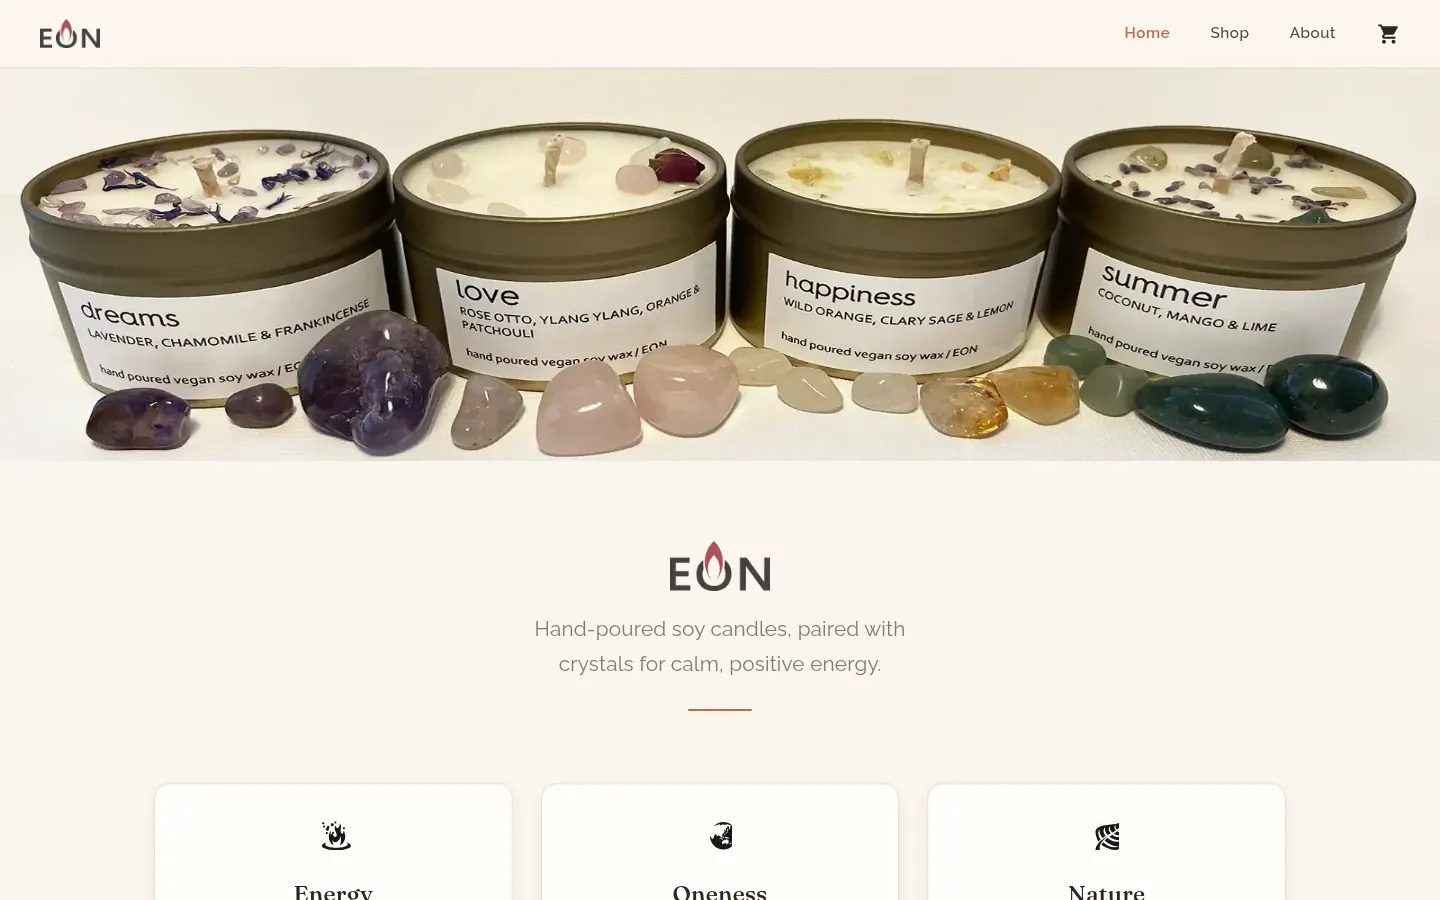
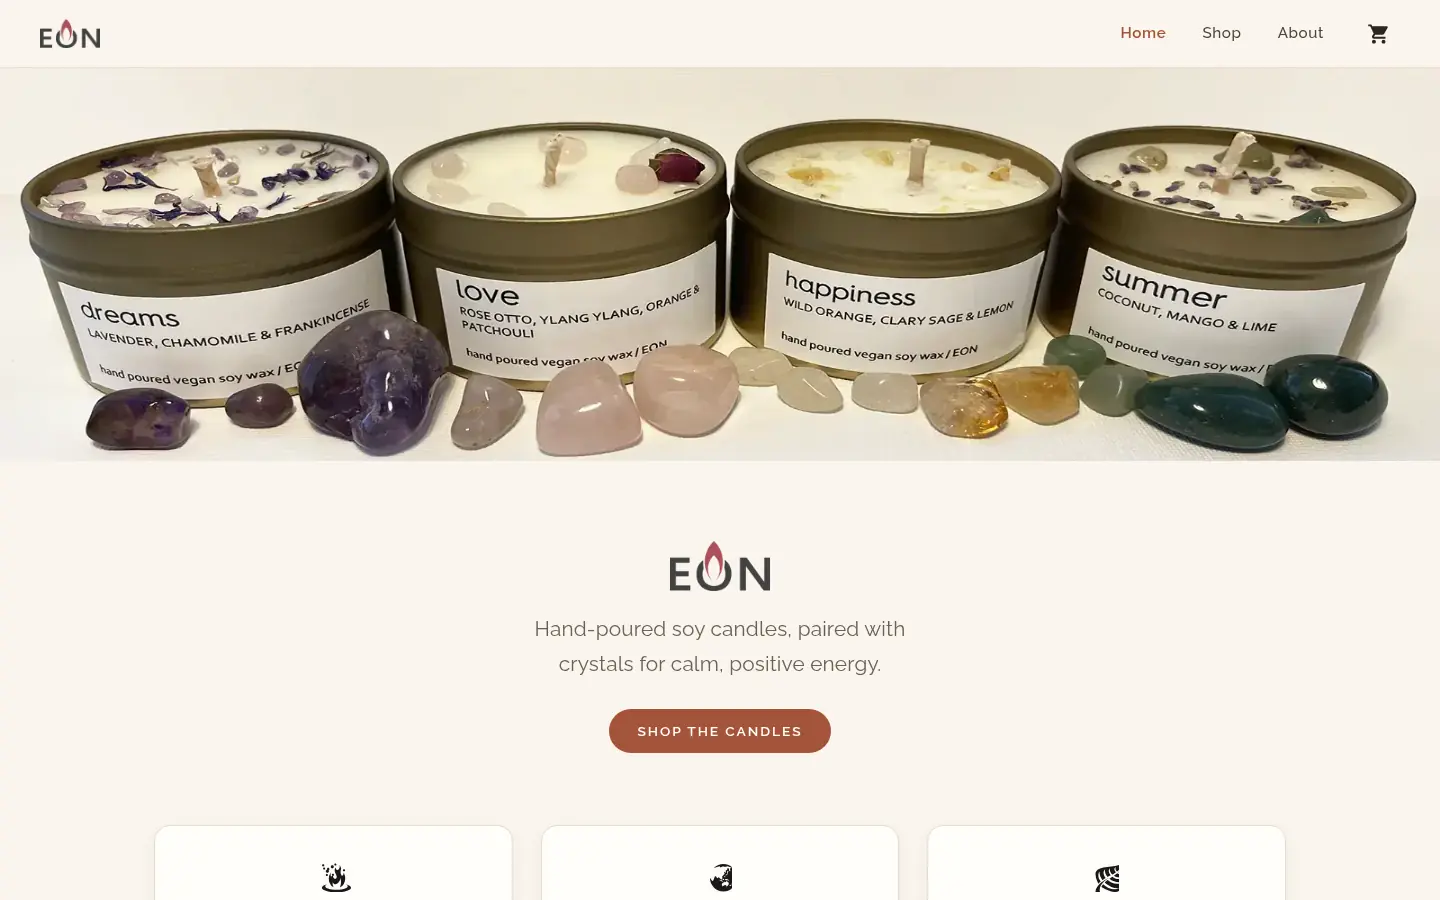
README: how checkout works, env vars, every test script, decisions and trade-offs, and new screenshots

diff --git a/README.md b/README.md
@@ -1,35 +1,55 @@
 # Eon
 
-Website and online shop for Eon, a New Zealand candle brand, built with Next.js and Stripe Checkout.
+Brand and shop site for Eon, a New Zealand candle label, built with Next.js and Stripe Checkout.
 
 **Live site:** [eon-ht82.vercel.app](https://eon-ht82.vercel.app/)
 
-![Eon home page: a banner photo of the four candle tins with crystals, then the Eon logo and tagline](docs/screenshot.webp)
+![Eon home page: a banner photo of the four candle tins with crystals, then the Eon logo, the tagline and a Shop the candles button](docs/screenshot.webp)
+
+<p>
+  <img src="docs/product-mobile.webp" width="300" alt="The Love candle page on a phone: photo gallery with previous and next buttons, the price, scent, crystal and botanicals, a quantity stepper and an Add to cart button">
+  <img src="docs/cart-mobile.webp" width="300" alt="The cart on a phone: two Love candles and one Dreams candle with quantity steppers and Remove buttons, then an order summary with subtotal, NZ shipping and the total">
+</p>
 
 ## About
 
-Eon's candles are hand-poured in vegan soy wax, each paired with crystal chips and flowers. This repo is the brand's site: a home page, a shop page, a page for each of the four candles (love, happiness, dreams and summer), an about page, and a cart with a checkout that is priced on the server.
+Eon's candles are hand-poured in vegan soy wax, each paired with crystal chips and botanicals. This repo is the label's site: a home page, a shop page, a page for each of the four candles (love, happiness, dreams and summer), an about page, and a cart with a checkout that is priced on the server.
 
 The live site is a portfolio demo: checkout shows an order summary and takes no payment.
 
-The first version was built between December 2021 and February 2022. In June 2026 the site was restyled with a small design system (cream, terracotta and sage palette, Fraunces and Raleway type) and simpler flex and grid layouts.
+The first version was built between December 2021 and February 2022. In June 2026 the site was restyled with a small design system (cream, terracotta and sage palette, Fraunces and Raleway type) and simpler flex and grid layouts. In October 2026 it moved to Next.js 16 and React 19, checkout gained a demo mode and server-side pricing, the shop was rebuilt for keyboard and screen-reader use, and the repo gained unit, API and end-to-end tests.
 
 ## Features
 
-- One product route (`pages/shop/[slug].js`) that builds a static page for each candle from the catalogue, with a photo gallery, a full-screen lightbox built on the native `<dialog>` element, a quantity stepper and an add-to-cart button that confirms each add.
-- A cart kept in `localStorage` through a pure reducer (`lib/cart.js`), with prices in cents taken from one catalogue (`data/candles.js`). It survives a reload and stays in sync across tabs.
-- A checkout API route (`pages/api/checkout_sessions.js`) that validates the cart and prices it on the server. With no Stripe key it returns a demo order summary; with a Stripe test key it creates a Stripe Checkout session limited to New Zealand addresses, with a flat NZ$5 shipping rate (1 to 3 business days).
-- Responsive navigation with a mobile menu and a cart count.
-- Security headers in `next.config.js`, including a Content-Security-Policy that allows only the site's own scripts, fonts and connections.
-- Self-hosted fonts, so pages make no third-party requests.
+- **One product route** (`pages/shop/[slug].js`) builds a static page for each candle from the catalogue. Thumbnails choose the main photo, the photo opens a full-screen lightbox built on the native `<dialog>` element (arrow keys, Escape, focus returns to the photo), and Add to cart confirms each add in a live region. The quantity stepper goes from 1 to 10.
+- **A cart kept in `localStorage`** through a pure reducer (`lib/cart.js`), with prices in cents from one catalogue (`data/candles.js`). It shows line totals, NZ shipping and the total, has a stepper and a Remove button on each line, survives a reload and stays in sync across tabs. Carts saved by the first version are migrated, and a corrupt saved cart loads as an empty one.
+- **A checkout API route** (`pages/api/checkout_sessions.js`) that validates the cart and prices it on the server. It runs in demo mode unless a Stripe key is set; see [How checkout works](#how-checkout-works).
+- **An order page** (`/success`) that shows the demo order summary straight after a demo checkout and a thank-you after a Stripe checkout. A direct visit says there's no order to show and leaves the cart alone.
+- **Navigation** with a skip link, a mobile menu that reports its state and closes on Escape, an outside tap, Back or a link, and one cart link named with the item count.
+- **Accessibility checks** with axe-core (WCAG 2.2 A and AA rules plus best practice) on every page and interactive state at 390 and 1440 px, 44 px touch targets, a visible focus ring, reduced motion, no sideways scrolling at 320 px and no clipped text at 200% text size.
+- **Security headers** in `next.config.js`: a Content-Security-Policy that allows only the site's own scripts, fonts and connections, plus HSTS, `X-Content-Type-Options`, `X-Frame-Options`, `Referrer-Policy` and `Permissions-Policy`.
+- **Page metadata from one site URL**: titles, descriptions, canonical links and the social card. `robots.txt` and `sitemap.xml` are written at build, and the cart, order and error pages are marked `noindex`.
+- **No third-party requests**: fonts are self-hosted and there are no analytics or Stripe scripts in the browser.
+
+## How checkout works
+
+1. The cart sends only candle slugs and quantities to `POST /api/checkout_sessions`.
+2. The server checks the request: JSON only (`415` otherwise), at most 8 kB, known candles, whole quantities from 1 to 10, each candle once and no other fields (`400` otherwise). It then prices each line, shipping and the total from the catalogue. Nothing the browser sends can change a price.
+3. The mode is decided on every request:
+   - **No `STRIPE_SECRET_KEY` (the default, and the live site): demo mode.** The API returns the order summary, the browser shows it on `/success` and empties the cart, and no payment is taken.
+   - **A Stripe test key** (`sk_test_` or `rk_test_`) creates a Stripe Checkout session in test mode: prices in NZD built on the server, New Zealand addresses only and a flat NZ$5 shipping rate (1 to 3 business days). The browser goes to the URL Stripe returns, and only if it is on `checkout.stripe.com`.
+   - **A live key** takes real payments only when `EON_ALLOW_LIVE_PAYMENTS=true` is also set. Without it the shop stays in demo mode and logs one warning that never includes the key.
+   - If Stripe rejects the key, checkout falls back to demo mode. Any other Stripe error returns a plain `502` with no details from Stripe.
+4. Stripe's return URLs come from an allow-list: the site URL, this deployment's Vercel URLs, and `localhost` or `127.0.0.1` outside production. The request's `Origin` header is never used, so nobody can point the shop's Stripe page at another site.
 
 ## Tech stack
 
-- Next.js 16 (pages router) and React 19
-- CSS Modules, with shared design tokens as CSS custom properties in `styles/globals.css`, and fonts through `next/font/local`
-- Stripe's Node SDK on the server (the browser needs no Stripe key)
-- react-icons
-- Vitest for unit and API tests, Playwright for end-to-end tests, ESLint 9 and Prettier
+- Next.js 16 (pages router, built with webpack) and React 19
+- CSS Modules, with shared design tokens as CSS custom properties in `styles/globals.css`, and Fraunces and Raleway self-hosted through `next/font/local`
+- Stripe's Node SDK on the server; the browser needs no Stripe key or script
+- react-icons (the old axios, MUI icons, Stripe.js and react-image-lightbox dependencies are gone)
+- Vitest, Testing Library and jsdom for unit, API and component tests; Playwright and axe-core for end-to-end, accessibility and performance tests
+- ESLint 9 with jsx-a11y, Prettier, and a TypeScript check of the checkout code's JSDoc types against the Stripe SDK
 - Node 24 (pinned in `package.json` and `.nvmrc`), deployed on Vercel
 
 ## Running locally
@@ -38,35 +58,64 @@ You need Node 24.
 
 ```bash
 npm ci
+cp .env.example .env.local   # optional: every variable is optional
 npm run dev
 ```
 
-Then open http://localhost:3000. No environment variables are needed: checkout runs in demo mode. To try a real Stripe test-mode hand-off, copy `.env.example` to `.env.local` and set `STRIPE_SECRET_KEY` to a Stripe test key. `.env.example` explains every variable.
+Then open http://localhost:3000. Checkout works with no keys: it runs in demo mode. To try a Stripe test-mode hand-off, set `STRIPE_SECRET_KEY` in `.env.local` to a test key from your own Stripe account.
 
-Other scripts:
+### Environment variables
 
-- `npm run build` and `npm run start`: production build and server
-- `npm run lint` and `npm run format:check`
-- `npm test`: unit, API and component tests
-- `npm run test:e2e`: end-to-end tests against a local production build (set `CHROME_PATH` to use an installed Chrome, or run `npx playwright install chromium` first)
+All are optional, and the build needs none. `.env.example` describes each one.
+
+| Name                                 | Default                                                     | What it does                                                                                               |
+| ------------------------------------ | ----------------------------------------------------------- | ---------------------------------------------------------------------------------------------------------- |
+| `STRIPE_SECRET_KEY`                  | empty: demo mode                                            | A test key turns on the Stripe test-mode hand-off. A live key needs `EON_ALLOW_LIVE_PAYMENTS` too.         |
+| `EON_ALLOW_LIVE_PAYMENTS`            | empty                                                       | `true` lets a live key take real payments.                                                                 |
+| `NEXT_PUBLIC_SITE_URL`               | Vercel's production URL, then `https://eon-ht82.vercel.app` | Canonical links, the sitemap and Stripe's return URLs.                                                     |
+| `NEXT_PUBLIC_STRIPE_PUBLISHABLE_KEY` | empty                                                       | Still accepted for older deployments, but no longer used.                                                  |
+| `EON_STRIPE_API_BASE`                | empty                                                       | Tests only: sends Stripe API calls to a local stub. Ignored unless the host is `localhost` or `127.0.0.1`. |
+
+The API reads the Stripe settings on every request. The cart and order pages also read them at build time to choose their wording, so set them before `npm run build`.
+
+### Scripts
+
+- `npm run dev`: development server
+- `npm run build` and `npm run start`: production build and server. The build writes `robots.txt` and `sitemap.xml` first.
+- `npm test`: unit, API and component tests (Vitest). A guard fails any test that opens a connection to anything other than localhost.
+- `npm run test:coverage`: the same tests, with at least 90% line coverage required for `lib/` and the API route
+- `npm run test:e2e`: end-to-end tests (Playwright). It builds the site, starts it on `127.0.0.1:7301` in demo mode, and runs the shopping journey, cart, checkout, gallery, navigation, accessibility, SEO and performance specs at 390 and 1440 px. A second server on port 7305, with a local Stripe stub on 7309, covers Stripe test mode, so nothing calls Stripe. Set `CHROME_PATH` to use an installed Chrome, or run `npx playwright install chromium` first.
+- `npm run lint`, `npm run typecheck`, `npm run format` and `npm run format:check`
+- `npm run check`: lint, type check, format check, tests with coverage and a production build
+
+`.github/workflows/ci.yml` runs `npm run check` and then the end-to-end tests on Node 24, in demo mode with no secrets.
 
 ## Project structure
 
 ```
 pages/          Home, shop, about, cart, success, 404 and 500 pages
 pages/shop/     [slug].js: one statically generated page per candle
-pages/api/      checkout_sessions.js (validates the cart, demo or Stripe)
-components/     Nav bar, footer, product card and gallery, cart controls, SEO tags
+pages/api/      checkout_sessions.js: validates the cart, then demo or Stripe
+components/     Nav bar, footer, product card and gallery, lightbox, cart controls, SEO tags
 data/           The candle catalogue, product copy and product photos
-hooks/          Cart context
-lib/            Cart, checkout, money, site URL and font helpers
+hooks/          The cart hook, backed by a small store in lib/
+lib/            Cart reducer and store, checkout, checkout mode, money, site URL and fonts
 styles/         Global design tokens, per-page CSS Modules and the font files
-tests/          Vitest unit, API and component tests
-e2e/            Playwright end-to-end tests
 assets/         Product photos, the logo and icons, imported by the code
 public/         The favicon, the home-screen icon and the social card image
 scripts/        Writes robots.txt and sitemap.xml at build
+tests/          Vitest unit, API and component tests, and test helpers
+e2e/            Playwright end-to-end, accessibility and performance tests
+docs/           README screenshots
 ```
+
+## Decisions and trade-offs
+
+- **A cart in `localStorage`, not on a server.** Four candles and no accounts don't need a database, and the server prices every checkout from the catalogue, so editing the saved cart can't change a price. The cost: a cart doesn't follow a shopper to another device.
+- **Stripe's hosted Checkout, not card fields on the site.** Card details never touch this site, and the browser loads no Stripe script. The cost: less control over how the payment page looks.
+- **A static catalogue in `data/candles.js`, not a CMS.** Every page is prerendered and needs no database. The cost: a new candle or price means a code change and a deploy.
+- **Demo mode by default.** The live demo works end to end without taking money, and a live key set by mistake can't switch real payments on by itself.
+- **What would come next:** a Stripe webhook to record paid orders, a server check of the session before the thank-you page (today it trusts the session id Stripe adds to the return URL), and stock levels if the range grows.
 
 ## Author
 
